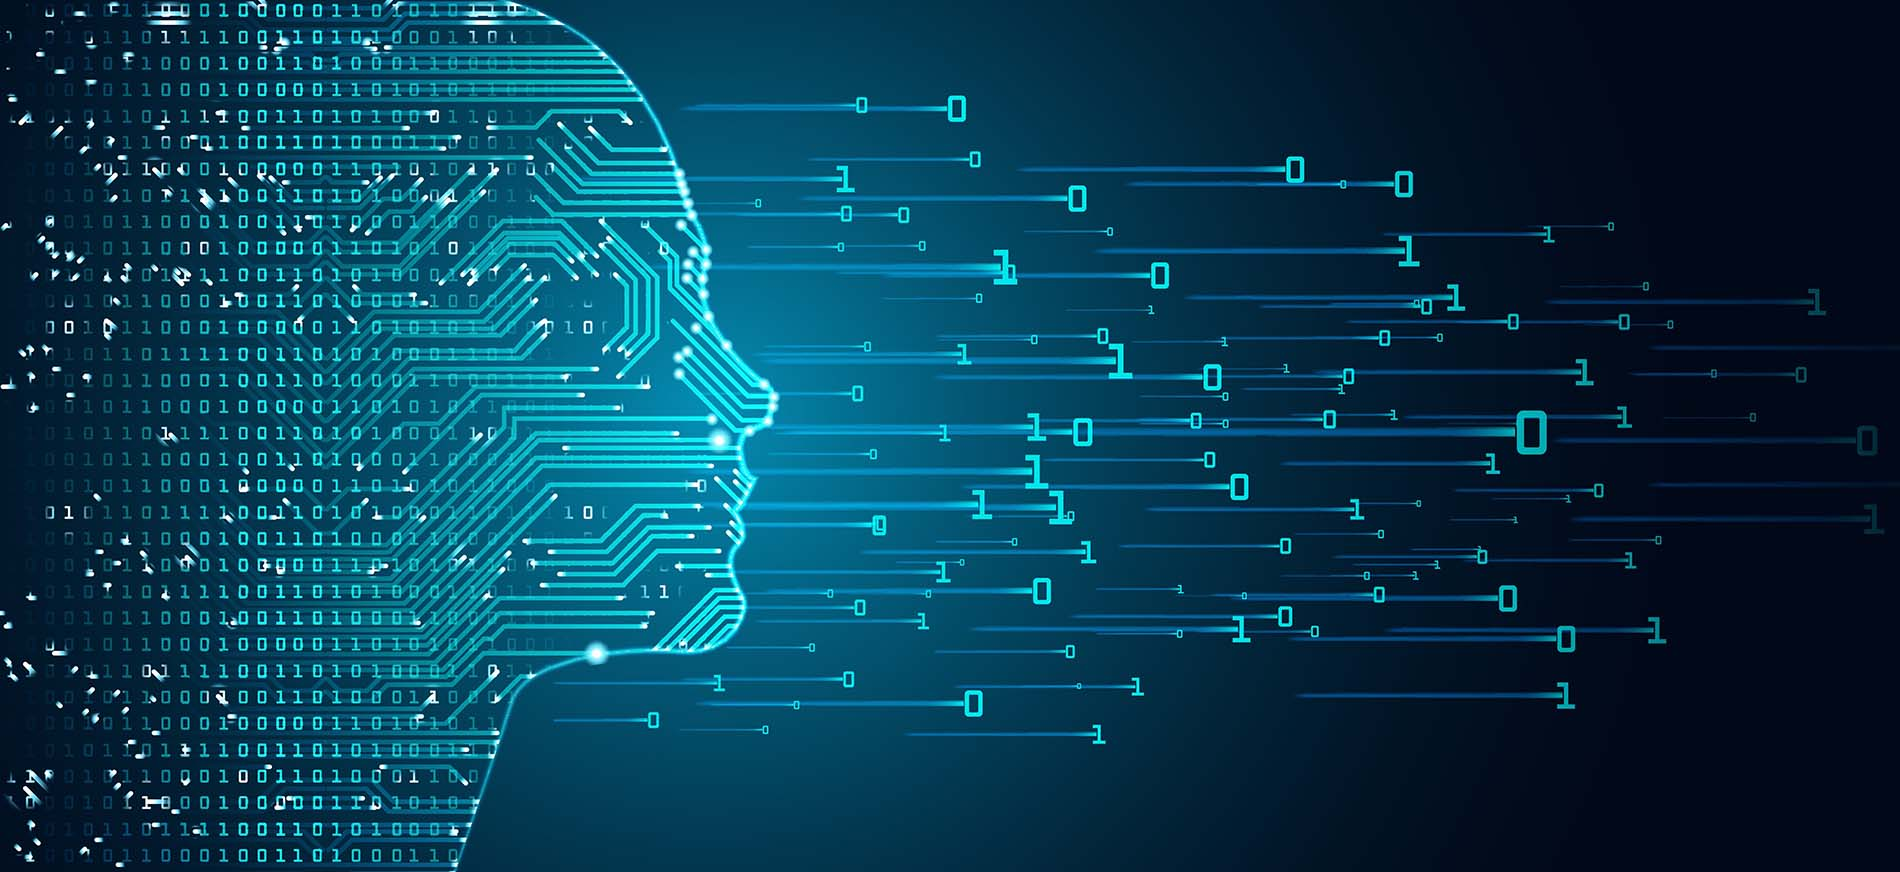
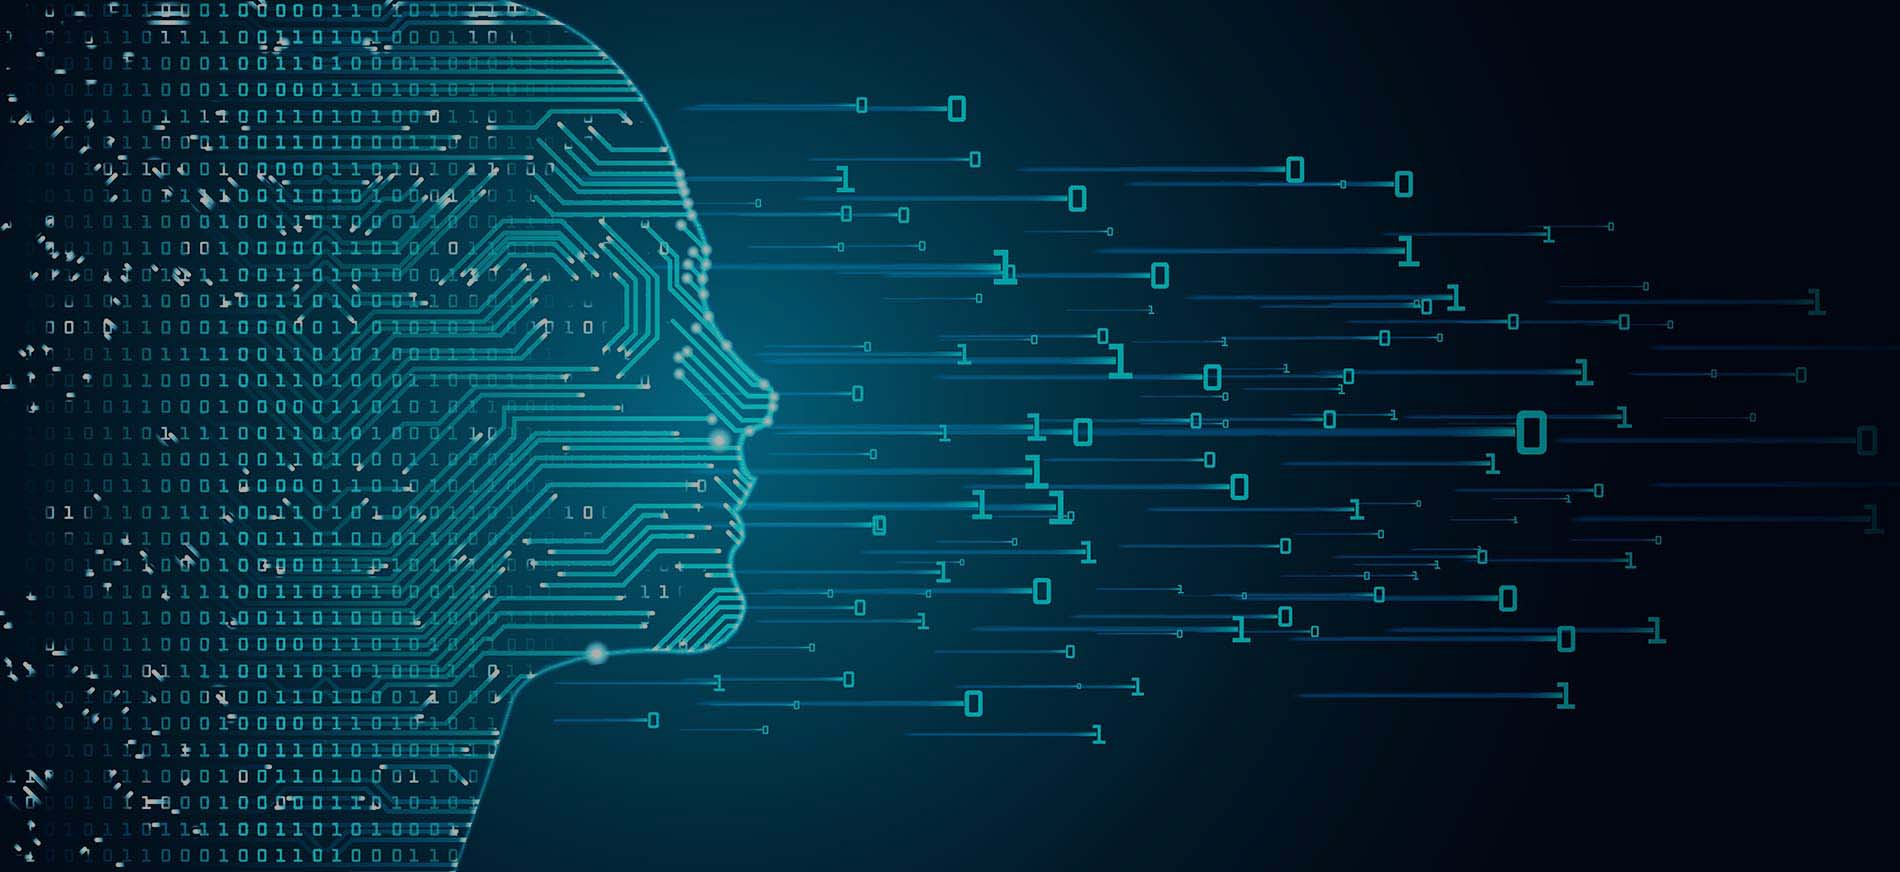
Update Background

diff --git a/_posts/2022-07-12-Docker_Installation_Ubuntu20.04.md b/_posts/2022-07-12-Docker_Installation_Ubuntu20.04.md
@@ -6,7 +6,7 @@ date: 2022-07-12
 author: Moax.Wang
 header-img: "img/post-bg-tech.jpg"
 tags: [Technology]
-header-mask: 0.9
+header-mask: 0.1
 catalog: true
 ---
 
